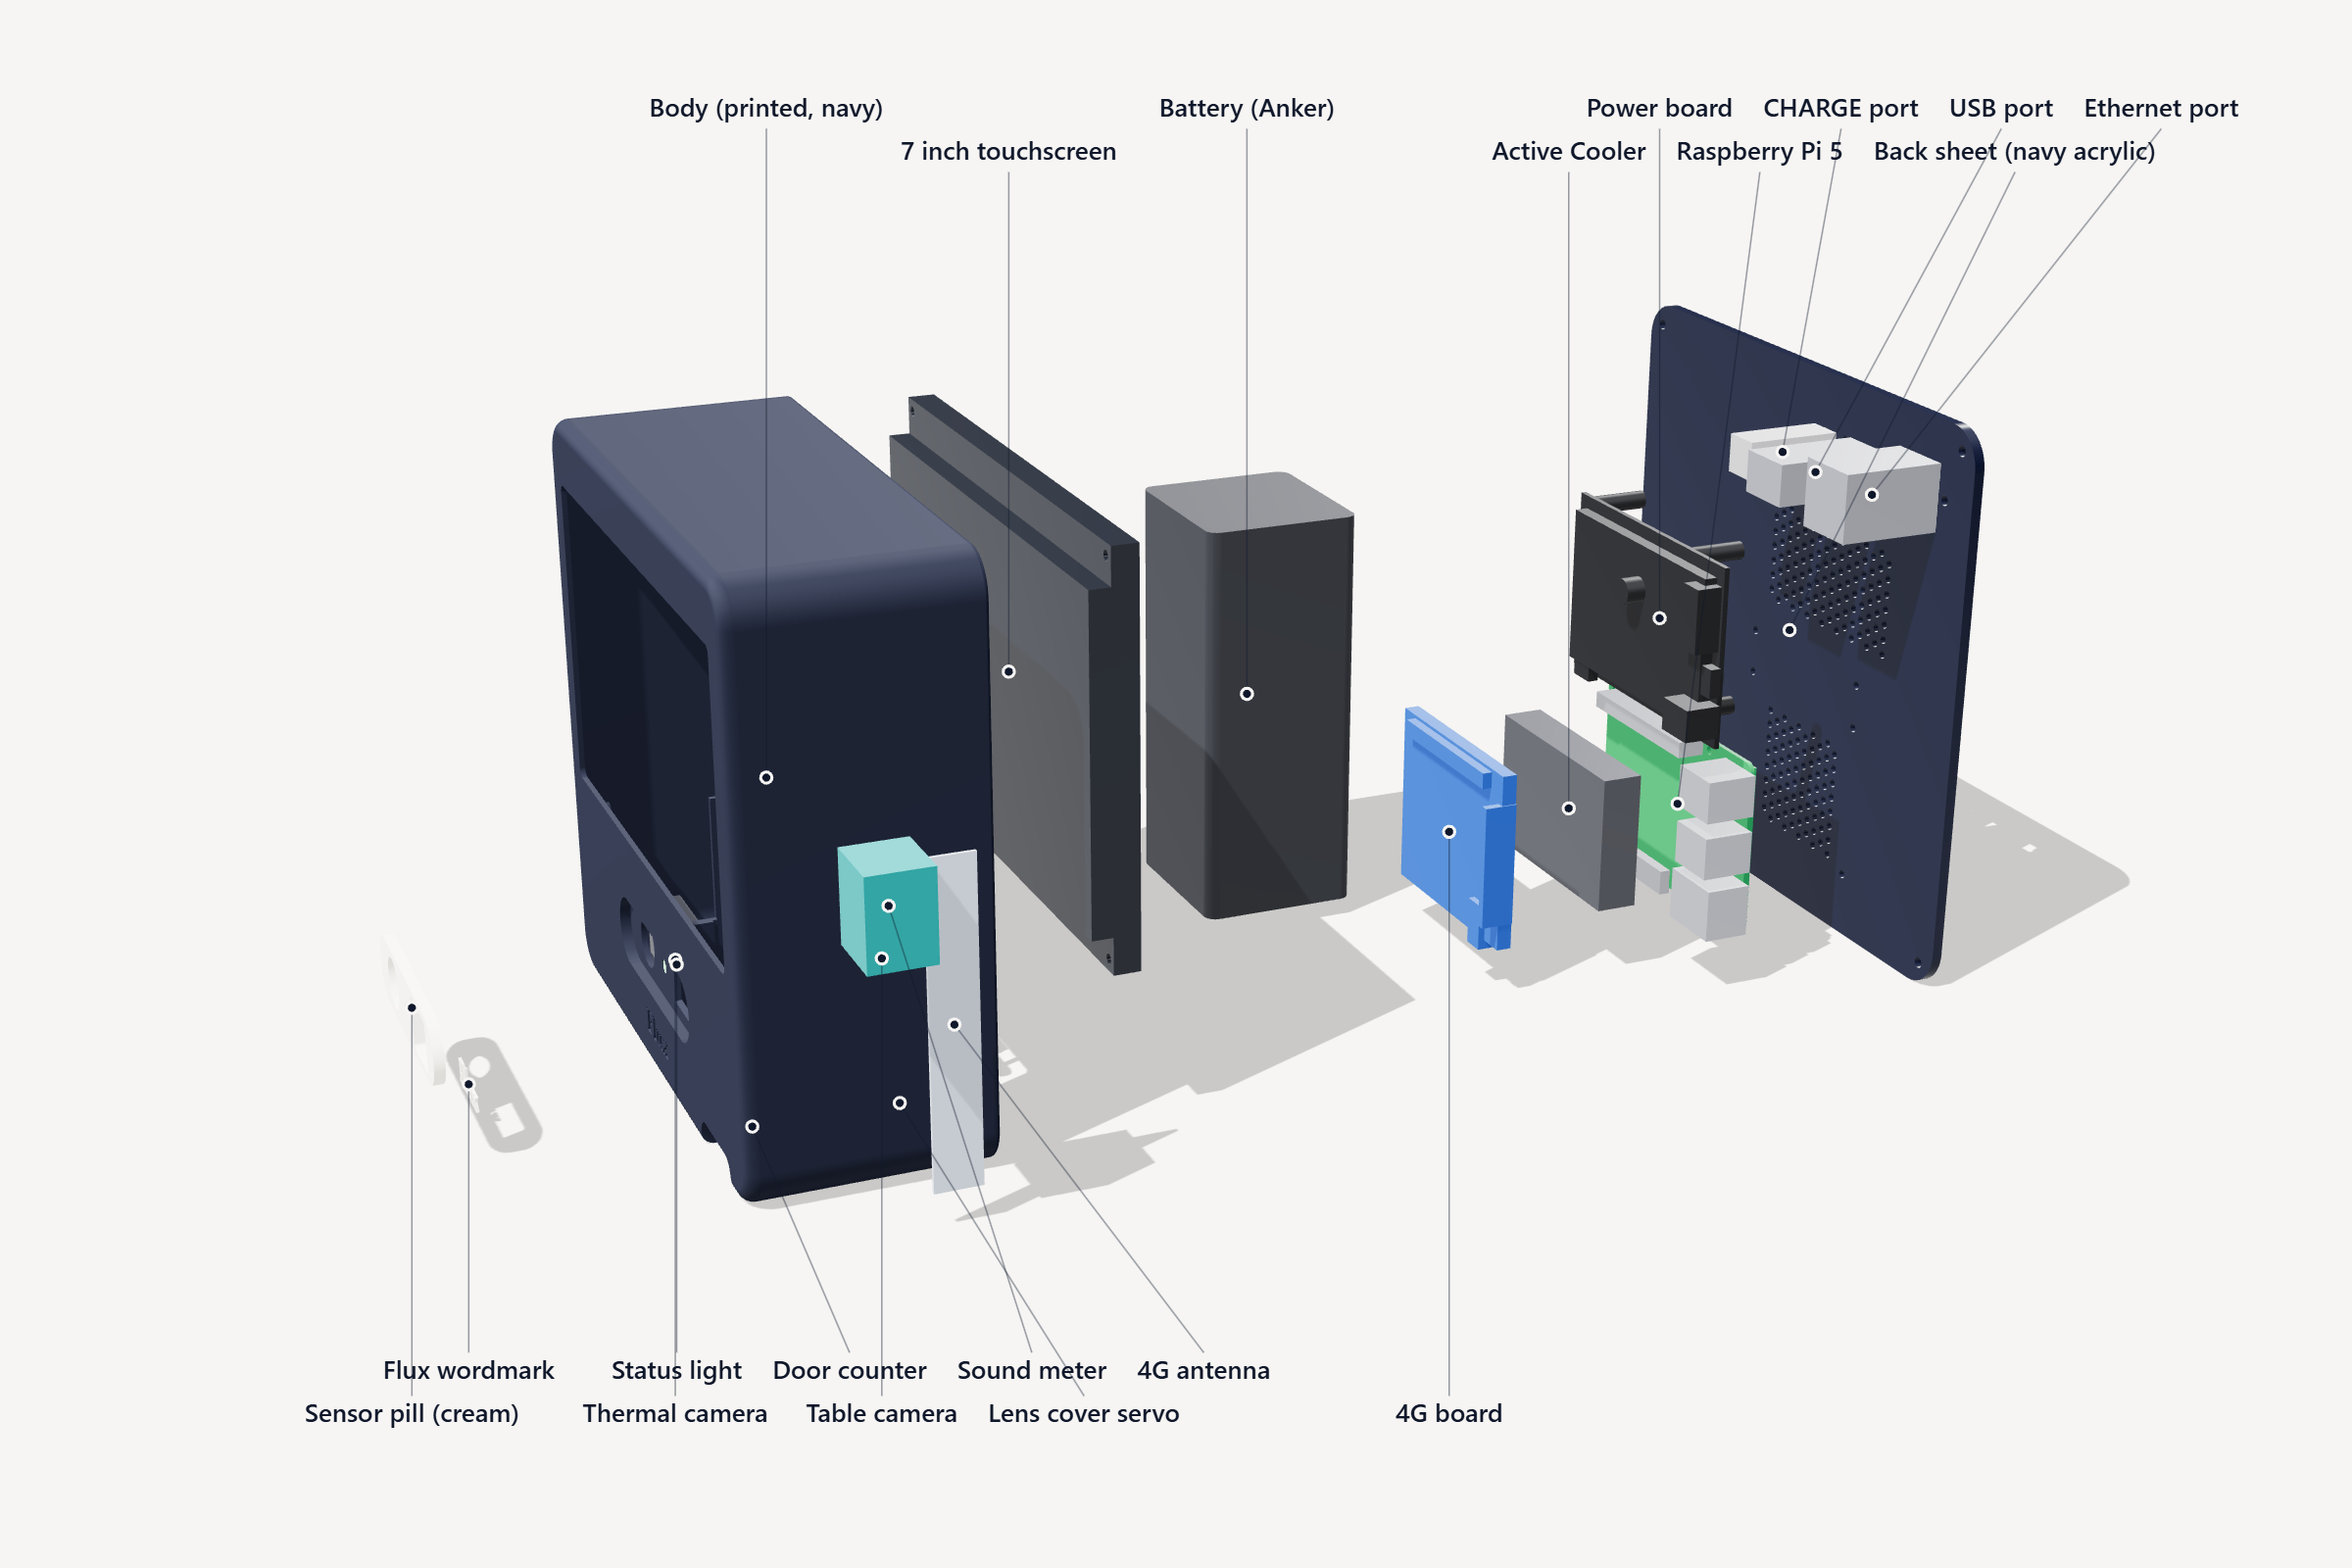
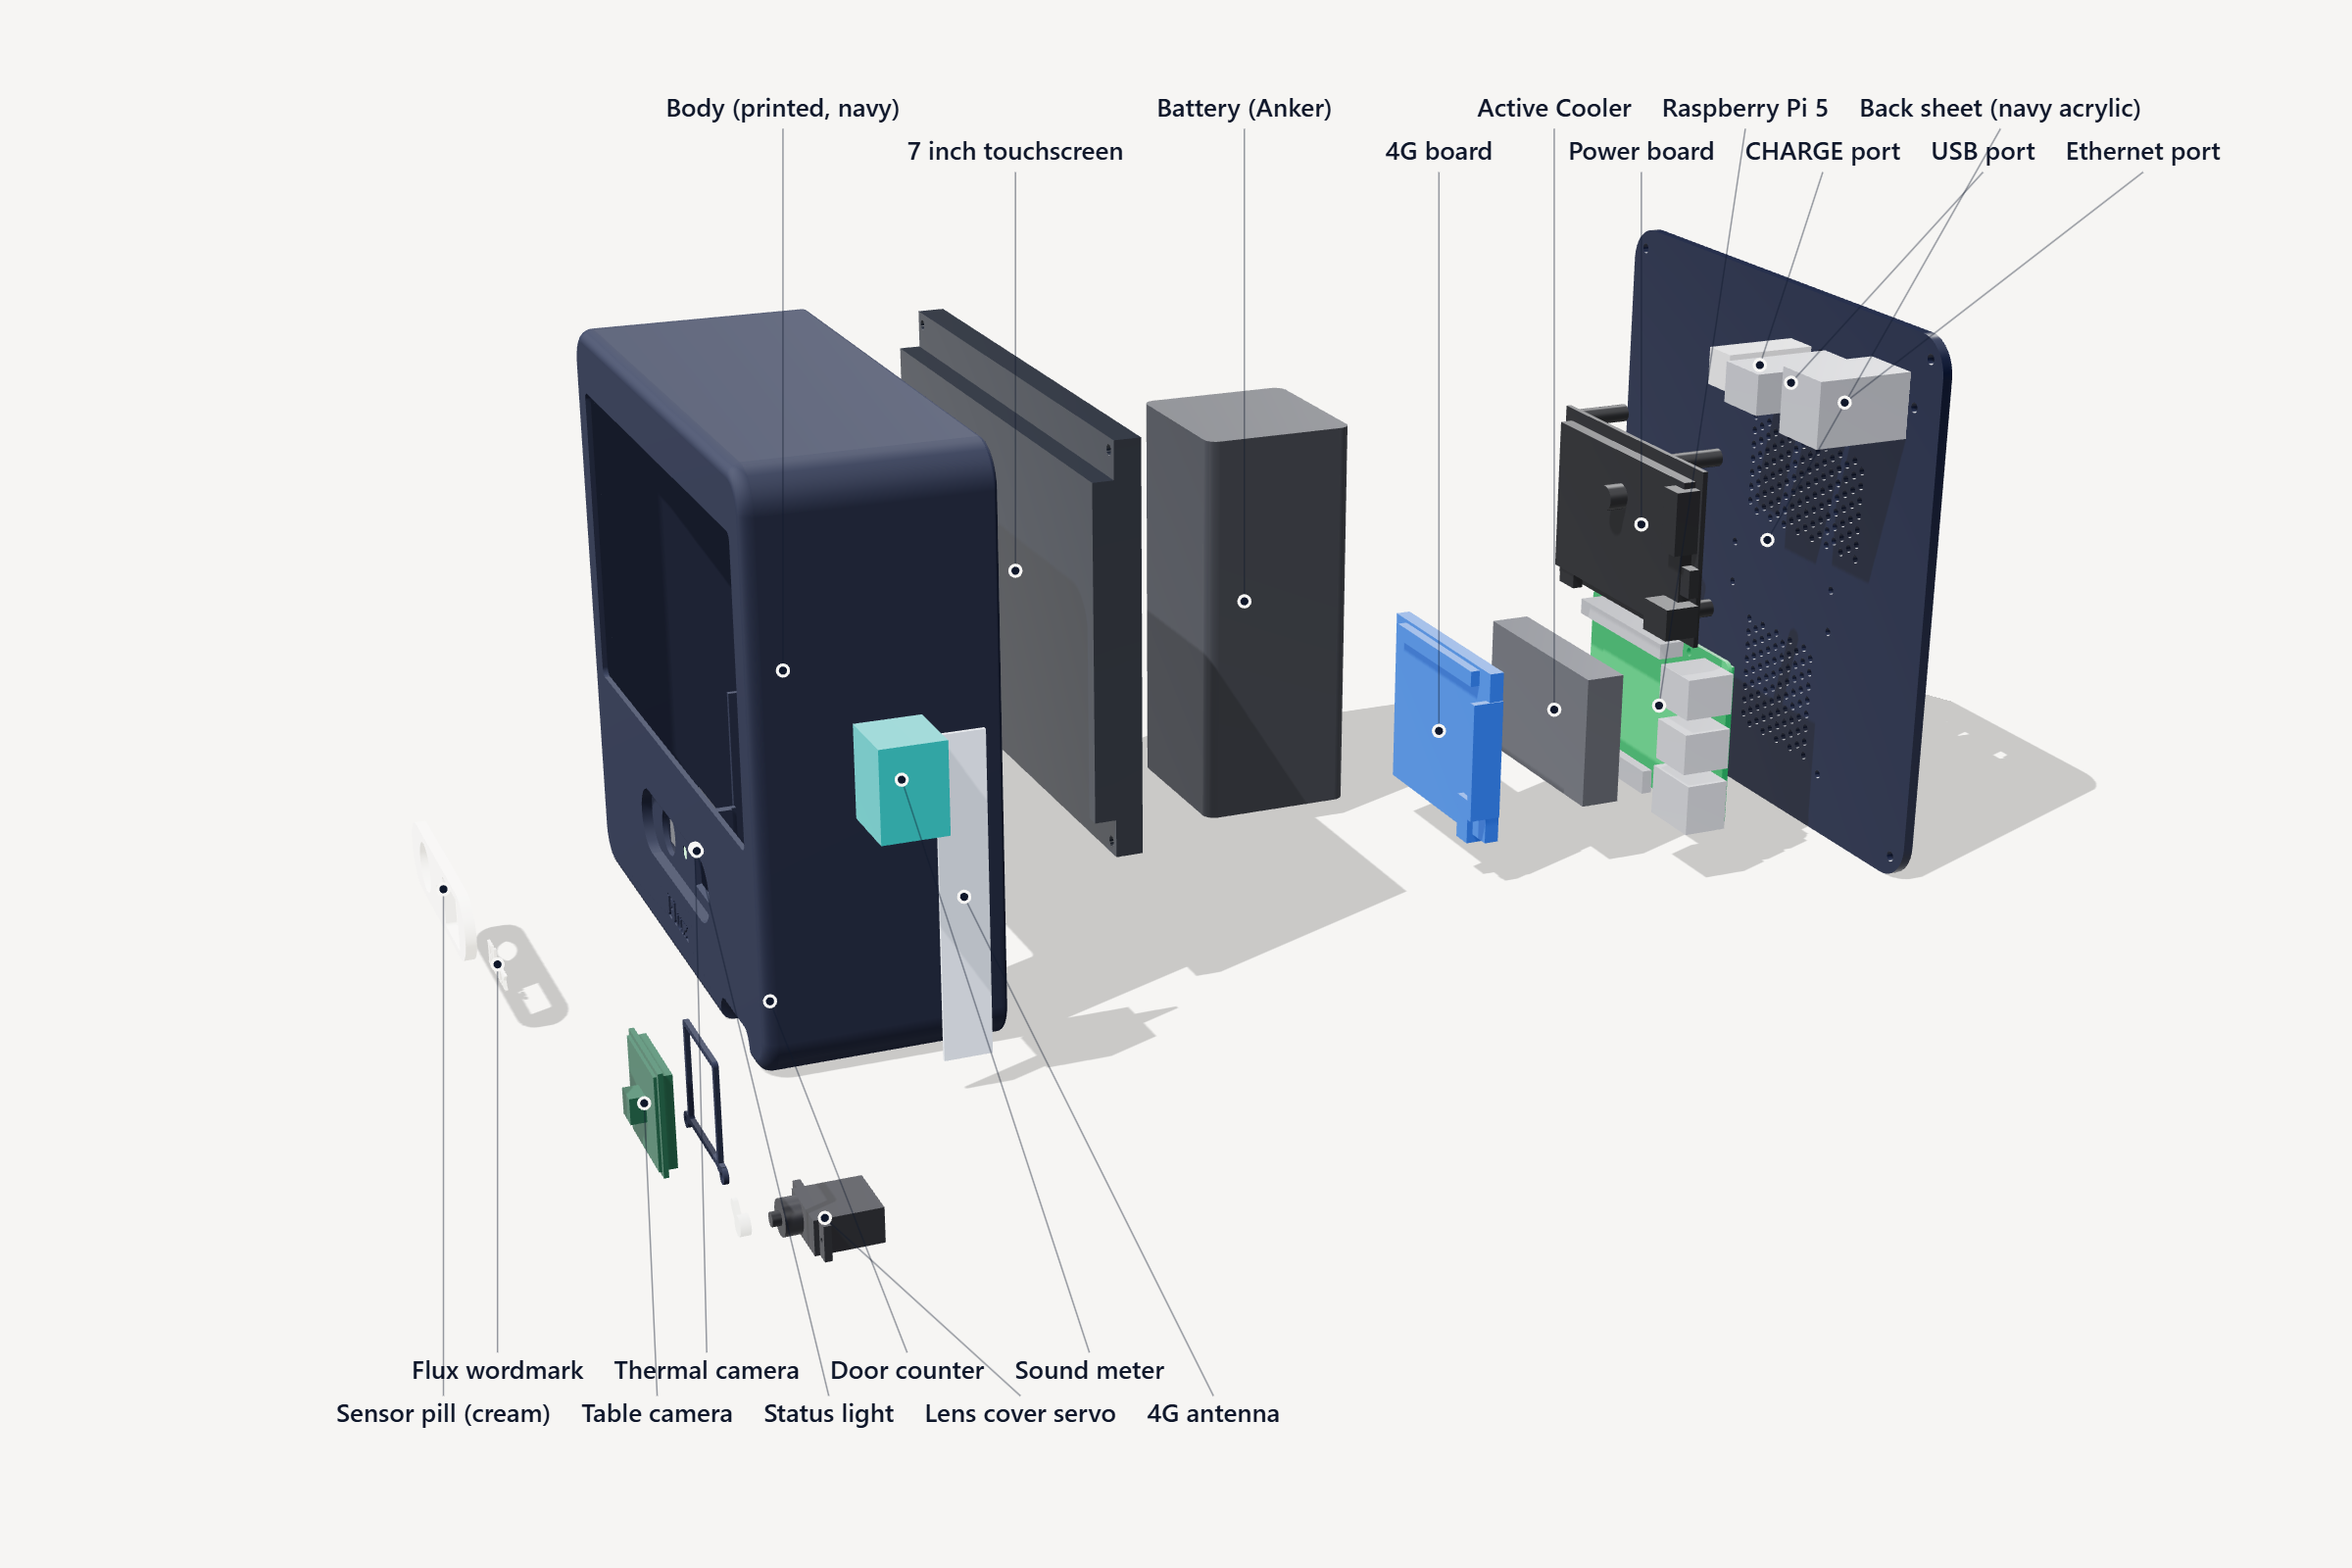
Enclosure exploded view: the table camera with its clamp, and the lens cover servo with its horn, come out below the...

diff --git a/flock-sensor/enclosure/viewer/index.html b/flock-sensor/enclosure/viewer/index.html
@@ -197,8 +197,8 @@
       // cooler, the Pi and power board, and the back sheet with its ports.
       'Sensor pill (cream)': [0, -70, 0], 'Flux wordmark (cream)': [0, -55, -6],
       'PureThermal 3 + Lepton 3.5': [0, 0, 0], 'VL53L8CX door counter': [0, 0, 0], 'LINK light': [0, 0, 0],
-      'Arducam IMX519 table camera': [0, 45, 0], 'Camera clamp (printed, navy)': [0, 62, 0],
-      'MG90S lens cover servo': [0, 40, -22], 'Servo horn': [0, 30, -22], 'Lens cover flap (printed, navy)': [0, 0, 0],
+      'Arducam IMX519 table camera': [0, -35, -70], 'Camera clamp (printed, navy)': [0, -20, -70],
+      'MG90S lens cover servo': [0, 10, -95], 'Servo horn': [0, 0, -95], 'Lens cover flap (printed, navy)': [0, 0, 0],
       '7 inch touchscreen': [0, 100, 0], 'Anker A1336 battery': [0, 165, 0],
       'Decibel meter': [45, 0, 0], '4G antenna strip': [28, 0, 0],
       'SIM7600G-H 4G HAT': [0, 205, 0], 'Active Cooler': [0, 230, 0],
